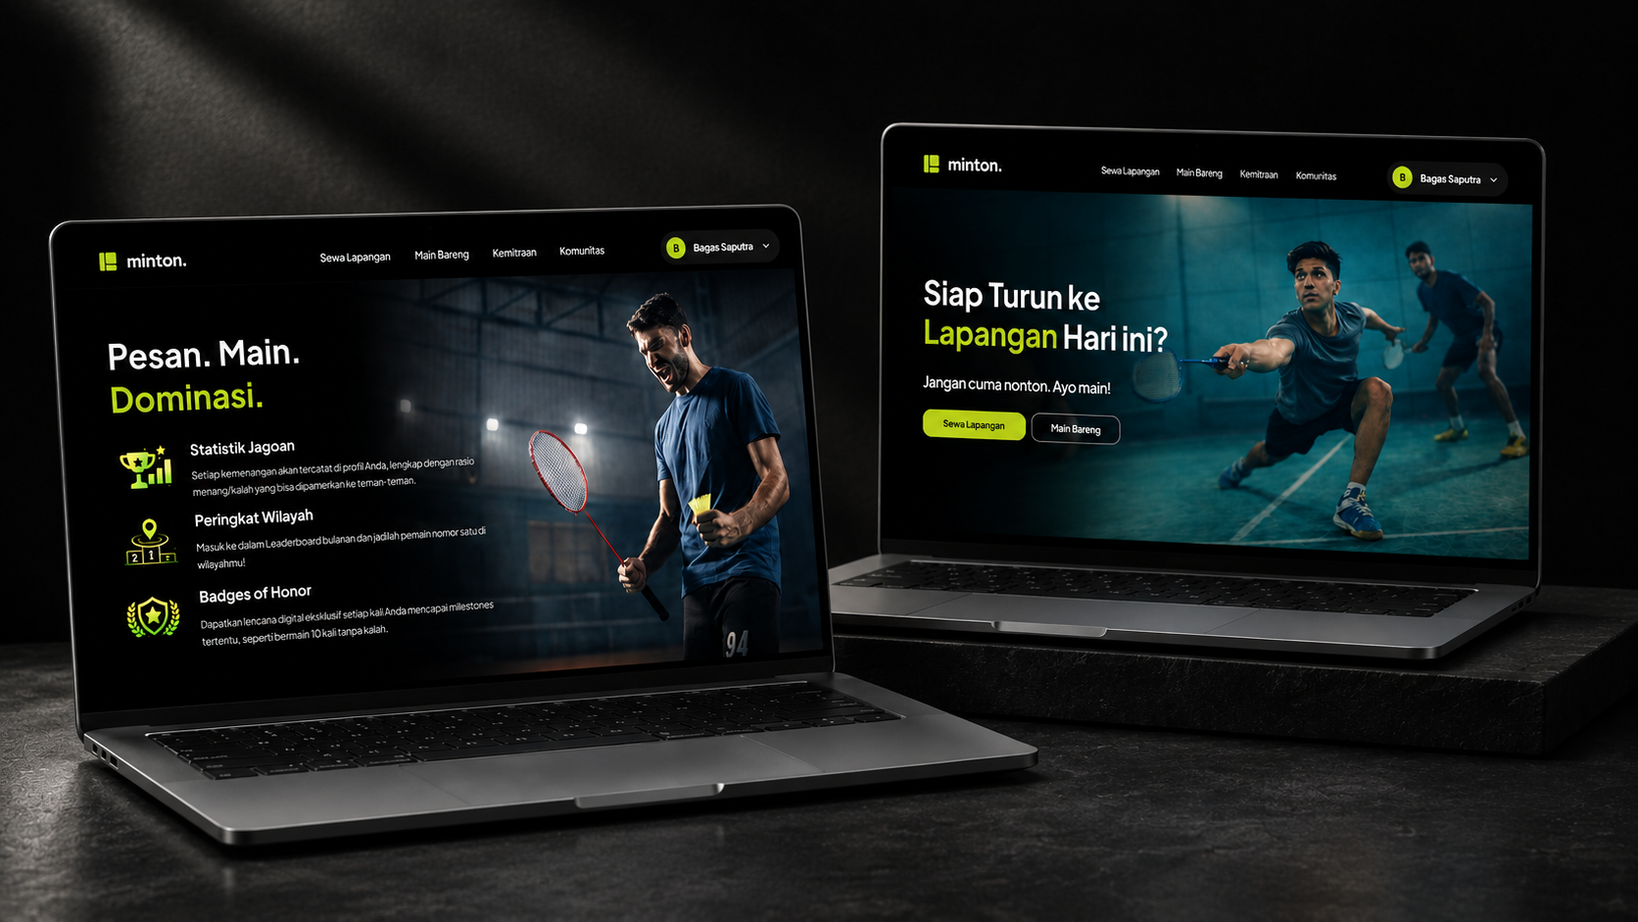
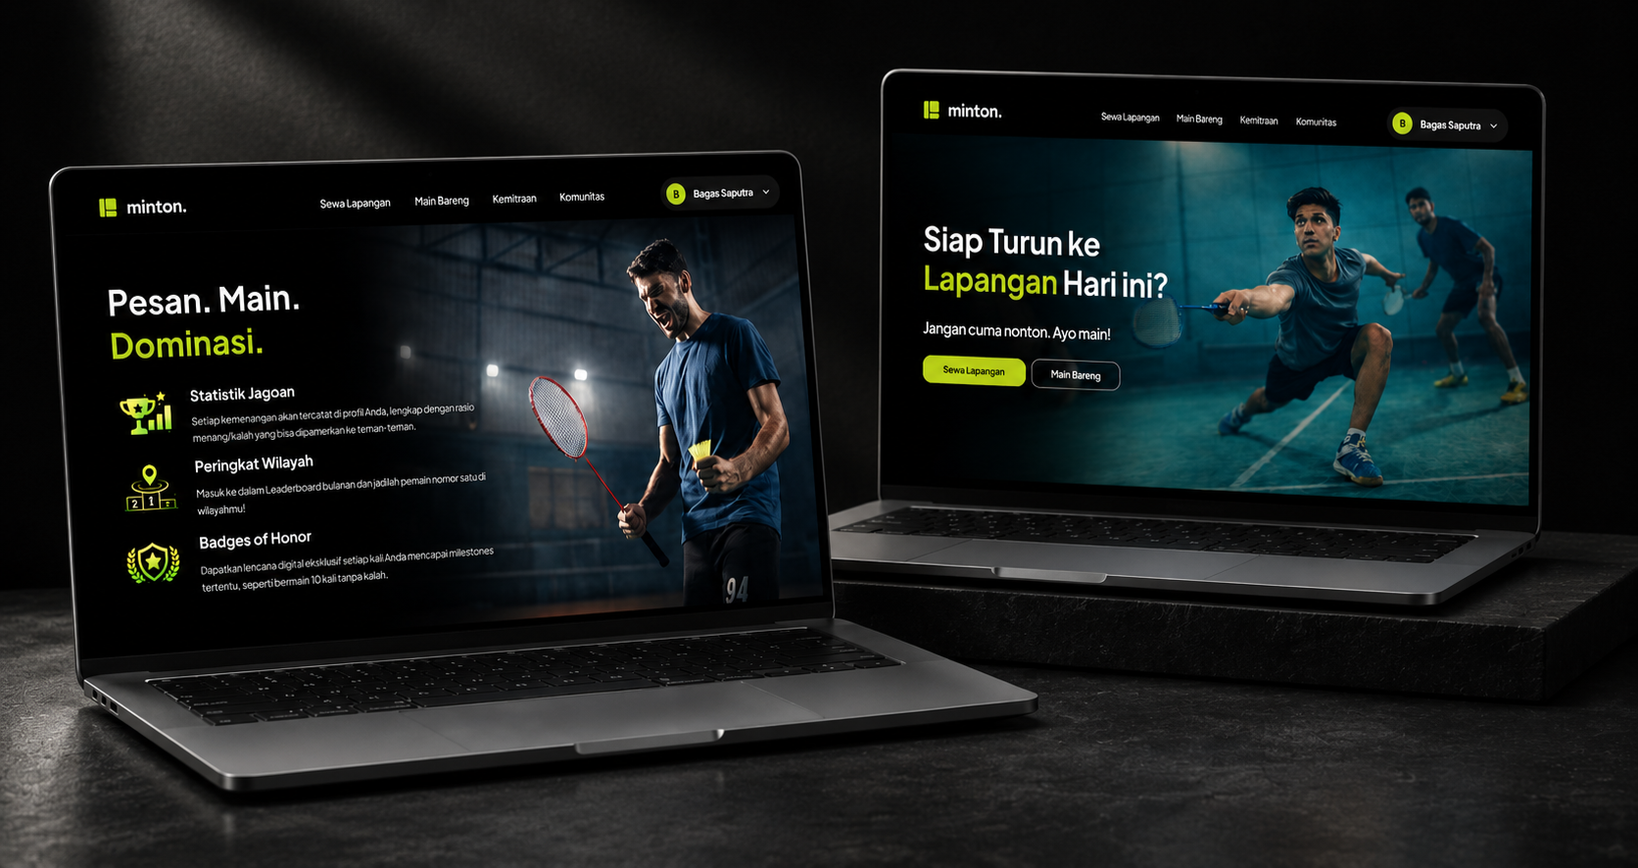
Enhance mobile experience design, add dual-language CV dropdown, update certificates and trainings

diff --git a/index.html b/index.html
@@ -72,7 +72,8 @@
                 style="max-width: 1000px; margin: 0 auto; text-align: center; display: flex; flex-direction: column; align-items: center; padding-top: 60px;">
                 <div class="badge" data-i18n="hero-badge">Portofolio Diamond Pandu</div>
                 <h1 class="hero-title" data-i18n="hero-title" style="margin-bottom: 2rem;">Dari Imajinasi hingga
-                    <span>Eksekusi,</span><br> Mengubah Ide Kreatif menjadi<br> Realitas Visual yang <span>Memukau.</span>
+                    <span>Eksekusi,</span><br> Mengubah Ide Kreatif menjadi<br> Realitas Visual yang
+                    <span>Memukau.</span>
                 </h1>
                 <div class="trust-indicators" style="margin-top: 3.5rem;">
                     <p data-i18n="hero-trust">Berpengalaman memberikan dampak positif di:</p>
@@ -126,8 +127,14 @@
                 <div class="hero-actions" style="margin-top: 2rem; margin-bottom: 0;">
                     <a href="#experience" class="btn-primary" data-i18n="hero-btn-exp">Lihat Pengalaman <i
                             class="fas fa-arrow-right"></i></a>
-                    <a href="#contact" class="btn-secondary" data-i18n="hero-btn-cv">Unduh CV <i
-                            class="fas fa-download"></i></a>
+                    <div class="cv-dropdown-wrapper" style="position: relative; display: inline-flex;">
+                        <a href="javascript:void(0)" class="btn-secondary cv-dropdown-btn" data-i18n="hero-btn-cv">Unduh
+                            CV <i class="fas fa-download"></i></a>
+                        <div class="cv-dropdown-content" id="cvDropdown">
+                            <a href="#" target="_blank" data-i18n="cv-id">Versi Bahasa Indonesia</a>
+                            <a href="#" target="_blank" data-i18n="cv-en">English Version</a>
+                        </div>
+                    </div>
                 </div>
             </div>
         </div>
@@ -175,10 +182,18 @@
                     <div class="exp-details">
                         <div class="details-inner">
                             <ul>
-                                <li data-i18n="exp-1-bullet-1">Merancang dan mengembangkan UI/UX serta Front-End untuk platform <strong>Indigo by Telkom – AI Synergy & Risk Engine</strong>, sebuah dashboard analitik risiko berbasis AI yang di-deploy live di Vercel.</li>
-                                <li data-i18n="exp-1-bullet-2">Mendesain antarmuka dan membangun Front-End website <strong>Minton – Badminton Ecosystem Platform</strong>, mencakup fitur <em>booking</em> lapangan, pendaftaran turnamen, dan komunitas pemain.</li>
-                                <li data-i18n="exp-1-bullet-3">Menerapkan metodologi <em>design thinking</em> end-to-end: riset pengguna, <em>wireframing</em>, <em>high-fidelity prototyping</em> di Figma, dan pengujian iteratif untuk validasi setiap keputusan desain.</li>
-                                <li data-i18n="exp-1-bullet-4">Mengembangkan antarmuka web responsif menggunakan HTML, CSS, dan JavaScript murni, memastikan performa optimal dan kompatibilitas lintas perangkat.</li>
+                                <li data-i18n="exp-1-bullet-1">Merancang dan mengembangkan UI/UX serta Front-End untuk
+                                    platform <strong>Indigo by Telkom – AI Synergy & Risk Engine</strong>, sebuah
+                                    dashboard analitik risiko berbasis AI yang di-deploy live di Vercel.</li>
+                                <li data-i18n="exp-1-bullet-2">Mendesain antarmuka dan membangun Front-End website
+                                    <strong>Minton – Badminton Ecosystem Platform</strong>, mencakup fitur
+                                    <em>booking</em> lapangan, pendaftaran turnamen, dan komunitas pemain.</li>
+                                <li data-i18n="exp-1-bullet-3">Menerapkan metodologi <em>design thinking</em>
+                                    end-to-end: riset pengguna, <em>wireframing</em>, <em>high-fidelity prototyping</em>
+                                    di Figma, dan pengujian iteratif untuk validasi setiap keputusan desain.</li>
+                                <li data-i18n="exp-1-bullet-4">Mengembangkan antarmuka web responsif menggunakan HTML,
+                                    CSS, dan JavaScript murni, memastikan performa optimal dan kompatibilitas lintas
+                                    perangkat.</li>
                             </ul>
                             <a href="pages/portfolio-vinix.html" class="btn-portfolio"
                                 data-i18n="exp-btn-portfolio">Lihat
@@ -215,9 +230,15 @@
                     <div class="exp-details">
                         <div class="details-inner">
                             <ul>
-                                <li data-i18n="exp-2-bullet-1">Penanggung jawab desain 40+ slide presentasi PROPER PT Pertamina Geothermal Energy Tbk Area Lahendong untuk penilaian kinerja lingkungan oleh Kementerian LHK RI.</li>
-                                <li data-i18n="exp-2-bullet-2">Mengembangkan konsep visual bertema inovasi sosial dan energi hijau, dengan palet warna khusus (hijau-kuning-putih) yang merepresentasikan ekosistem panas bumi dan pemberdayaan masyarakat petani binaan.</li>
-                                <li data-i18n="exp-2-bullet-3">Berhasil menyajikan data kinerja lingkungan kompleks menjadi infografis yang komunikatif, mendukung pencapaian perusahaan meraih predikat <strong>PROPER Hijau</strong> dari Kementerian LHK.</li>
+                                <li data-i18n="exp-2-bullet-1">Penanggung jawab desain 40+ slide presentasi PROPER PT
+                                    Pertamina Geothermal Energy Tbk Area Lahendong untuk penilaian kinerja lingkungan
+                                    oleh Kementerian LHK RI.</li>
+                                <li data-i18n="exp-2-bullet-2">Mengembangkan konsep visual bertema inovasi sosial dan
+                                    energi hijau, dengan palet warna khusus (hijau-kuning-putih) yang merepresentasikan
+                                    ekosistem panas bumi dan pemberdayaan masyarakat petani binaan.</li>
+                                <li data-i18n="exp-2-bullet-3">Berhasil menyajikan data kinerja lingkungan kompleks
+                                    menjadi infografis yang komunikatif, mendukung pencapaian perusahaan meraih predikat
+                                    <strong>PROPER Hijau</strong> dari Kementerian LHK.</li>
                             </ul>
                             <a href="pages/portfolio-pertamina-geothermal.html" class="btn-portfolio"
                                 data-i18n="exp-btn-portfolio">Lihat Portofolio <i
@@ -253,9 +274,15 @@
                     <div class="exp-details">
                         <div class="details-inner">
                             <ul>
-                                <li data-i18n="exp-3-bullet-1">Penanggung jawab desain 40+ slide presentasi PROPER PT Kilang Pertamina Internasional RU IV Cilacap, bekerja secara hybrid di kantor maupun remote.</li>
-                                <li data-i18n="exp-3-bullet-2">Menerapkan pendekatan visual data-driven dengan infografis yang menggambarkan dampak pengelolaan limbah, emisi, hingga program CSR perusahaan secara terukur.</li>
-                                <li data-i18n="exp-3-bullet-3">Mendukung keberhasilan perusahaan meraih predikat <strong>PROPER EMAS</strong> dari Kementerian LHK melalui penyajian visual yang profesional dan strategis.</li>
+                                <li data-i18n="exp-3-bullet-1">Penanggung jawab desain 40+ slide presentasi PROPER PT
+                                    Kilang Pertamina Internasional RU IV Cilacap, bekerja secara hybrid di kantor maupun
+                                    remote.</li>
+                                <li data-i18n="exp-3-bullet-2">Menerapkan pendekatan visual data-driven dengan
+                                    infografis yang menggambarkan dampak pengelolaan limbah, emisi, hingga program CSR
+                                    perusahaan secara terukur.</li>
+                                <li data-i18n="exp-3-bullet-3">Mendukung keberhasilan perusahaan meraih predikat
+                                    <strong>PROPER EMAS</strong> dari Kementerian LHK melalui penyajian visual yang
+                                    profesional dan strategis.</li>
                             </ul>
                             <a href="pages/portfolio-pertamina-internasional.html" class="btn-portfolio"
                                 data-i18n="exp-btn-portfolio">Lihat Portofolio <i
@@ -289,10 +316,17 @@
                     <div class="exp-details">
                         <div class="details-inner">
                             <ul>
-                                <li data-i18n="exp-4-bullet-1">Mendesain 50+ aset visual untuk kampanye digital & non-digital sesuai visual guideline perusahaan, mencakup konten media sosial, banner, poster, dan motion graphic.</li>
-                                <li data-i18n="exp-4-bullet-2">Memproduksi 2 video motion graphic untuk kampanye Instagram Reels: "Beras untuk Generasi Emas" dan "Packaging Baru Setra Ramos" yang menargetkan audiens millennial.</li>
-                                <li data-i18n="exp-4-bullet-3">Mengoptimasi desain media cetak (poster SPHP, banner beras ramos, poster K3) untuk kebutuhan komunikasi Bagian Marketing Communication dan Hubungan Masyarakat.</li>
-                                <li data-i18n="exp-4-bullet-4"><em>Pencapaian: Sertifikat Magenta BUMN dengan Nilai A (Sangat Memuaskan).</em></li>
+                                <li data-i18n="exp-4-bullet-1">Mendesain 50+ aset visual untuk kampanye digital &
+                                    non-digital sesuai visual guideline perusahaan, mencakup konten media sosial,
+                                    banner, poster, dan motion graphic.</li>
+                                <li data-i18n="exp-4-bullet-2">Memproduksi 2 video motion graphic untuk kampanye
+                                    Instagram Reels: "Beras untuk Generasi Emas" dan "Packaging Baru Setra Ramos" yang
+                                    menargetkan audiens millennial.</li>
+                                <li data-i18n="exp-4-bullet-3">Mengoptimasi desain media cetak (poster SPHP, banner
+                                    beras ramos, poster K3) untuk kebutuhan komunikasi Bagian Marketing Communication
+                                    dan Hubungan Masyarakat.</li>
+                                <li data-i18n="exp-4-bullet-4"><em>Pencapaian: Sertifikat Magenta BUMN dengan Nilai A
+                                        (Sangat Memuaskan).</em></li>
                             </ul>
                             <a href="pages/portfolio-bulog.html" class="btn-portfolio"
                                 data-i18n="exp-btn-portfolio">Lihat
@@ -327,10 +361,17 @@
                     <div class="exp-details">
                         <div class="details-inner">
                             <ul>
-                                <li data-i18n="exp-5-bullet-1">Mendesain sistem identitas visual berupa maskot & branding elements untuk Program Nasional Pusat Perbukuan, dan <strong>meraih Juara 1</strong> dalam kompetisi Desain Maskot & Branding BSKAP 2024.</li>
-                                <li data-i18n="exp-5-bullet-2">Mendesain Buku Pedoman ZI-WBK | WBBM BSKAP 2024 (60+ halaman) dengan tata letak yang informatif dan konsisten dengan identitas lembaga.</li>
-                                <li data-i18n="exp-5-bullet-3">Membuat ilustrasi Buku Non-Teks Komik Jenjang E untuk Kampanye Anti-Bullying, menerjemahkan pesan edukasi ke dalam visual yang menarik bagi pembaca anak.</li>
-                                <li data-i18n="exp-5-bullet-4">Berkolaborasi dengan divisi humas dalam perancangan aset konten media sosial resmi BSKAP Kemendikbudristek.</li>
+                                <li data-i18n="exp-5-bullet-1">Mendesain sistem identitas visual berupa maskot &
+                                    branding elements untuk Program Nasional Pusat Perbukuan, dan <strong>meraih Juara
+                                        1</strong> dalam kompetisi Desain Maskot & Branding BSKAP 2024.</li>
+                                <li data-i18n="exp-5-bullet-2">Mendesain Buku Pedoman ZI-WBK | WBBM BSKAP 2024 (60+
+                                    halaman) dengan tata letak yang informatif dan konsisten dengan identitas lembaga.
+                                </li>
+                                <li data-i18n="exp-5-bullet-3">Membuat ilustrasi Buku Non-Teks Komik Jenjang E untuk
+                                    Kampanye Anti-Bullying, menerjemahkan pesan edukasi ke dalam visual yang menarik
+                                    bagi pembaca anak.</li>
+                                <li data-i18n="exp-5-bullet-4">Berkolaborasi dengan divisi humas dalam perancangan aset
+                                    konten media sosial resmi BSKAP Kemendikbudristek.</li>
                             </ul>
                             <a href="pages/portfolio-bskap.html" class="btn-portfolio"
                                 data-i18n="exp-btn-portfolio">Lihat
@@ -418,12 +459,11 @@
                                     <span data-i18n="cert-2-desc">UX Design Professional</span>
                                 </div>
                             </div>
-                            <div class="cert-card"
-                                data-cert-src="assets/img/EFSET C2_page-0001.jpg"
+                            <div class="cert-card" data-cert-src="assets/img/EFSET C2_page-0001.jpg"
                                 data-cert-type="image"
                                 style="background: var(--bg-secondary); border: none; display: flex; align-items: center; gap: 1rem; padding: 1rem; border-radius: 8px;">
                                 <div class="cert-icon efset"
-                                    style="width: 56px; height: 56px; display: flex; align-items: center; justify-content: center; background: #ffffff; border-radius: 8px; padding: 6px; box-shadow: 0 4px 6px rgba(0,0,0,0.1); flex-shrink: 0;">
+                                    style="width: 56px; height: 56px; display: flex; align-items: center; justify-content: center; background: transparent; padding: 0; box-shadow: none; flex-shrink: 0;">
                                     <img src="assets/img/efset.png" alt="EFSET English"
                                         style="max-width: 100%; max-height: 100%; object-fit: contain;">
                                 </div>
@@ -438,7 +478,7 @@
                                 data-cert-type="image"
                                 style="background: var(--bg-secondary); border: none; display: flex; align-items: center; gap: 1rem; padding: 1rem; border-radius: 8px;">
                                 <div class="cert-icon toefl"
-                                    style="width: 56px; height: 56px; display: flex; align-items: center; justify-content: center; background: #ffffff; border-radius: 8px; padding: 6px; box-shadow: 0 4px 6px rgba(0,0,0,0.1); flex-shrink: 0;">
+                                    style="width: 56px; height: 56px; display: flex; align-items: center; justify-content: center; background: transparent; padding: 0; box-shadow: none; flex-shrink: 0;">
                                     <img src="assets/img/toefl.png" alt="TOEFL ITP"
                                         style="max-width: 100%; max-height: 100%; object-fit: contain;">
                                 </div>
@@ -589,7 +629,6 @@
                         <li data-i18n="ach-train-1">Bootcamp UI/UX Design Special Skill Indonesia (Predikat “Excellent”)
                         </li>
                         <li data-i18n="ach-train-2">Rakamin PBI – UI/UX Designer Nuri</li>
-                        <li data-i18n="ach-train-3">Rakamin PBI – UX Researcher Telkom Digital Amoeba</li>
                     </ul>
                 </div>
             </div>
@@ -622,7 +661,7 @@
         <div class="container footer-container">
             <div class="footer-brand">
                 <a href="#" class="logo">Portfo<span>lio.</span></a>
-                <p>Visual Communication & Digital Transformation Designer</p>
+                <p data-i18n="footer-desc">Visual Communication & Digital Transformation Designer</p>
             </div>
             <div class="footer-social">
                 <a href="https://www.linkedin.com/in/diamondpandu/" target="_blank"><i

diff --git a/script.js b/script.js
@@ -134,9 +134,9 @@ document.addEventListener('DOMContentLoaded', () => {
             'nav-contact': 'Hubungi Saya',
             'hero-badge': 'Portofolio Diamond Pandu',
             'hero-title': 'Dari Imajinasi hingga <span>Eksekusi,</span><br> Mengubah Ide Kreatif menjadi<br> Realitas Visual yang <span>Memukau.</span>',
-            'hero-subtitle': 'Saya adalah seorang <strong>Visual Communication & Digital Transformation Designer</strong> dengan keahlian komprehensif di bidang UI/UX, Front-End Development, dan Desain Grafis. Berpengalaman dalam memberikan solusi visual strategis untuk berbagai institusi besar termasuk BUMN dan Kementerian.',
+            'hero-subtitle': 'Saya adalah seorang <strong>Desainer Komunikasi Visual & Transformasi Digital</strong> dengan keahlian komprehensif di bidang Desain UI/UX, Pemrograman Front-End, serta Desain Grafis. Berpengalaman luas dalam memberikan solusi visual strategis untuk berbagai institusi berskala besar, termasuk Kementerian dan BUMN.',
             'about-header-title': 'Tentang <span>Saya</span>',
-            'about-subtitle': 'Saya adalah seorang <strong>Visual Communication & Digital Transformation Designer</strong> dengan keahlian komprehensif di bidang UI/UX, Front-End Development, dan Desain Grafis. Berpengalaman dalam memberikan solusi visual strategis untuk berbagai institusi besar termasuk BUMN dan Kementerian.',
+            'about-subtitle': 'Saya adalah seorang <strong>Desainer Komunikasi Visual & Transformasi Digital</strong> dengan keahlian komprehensif di bidang Desain UI/UX, Pemrograman Front-End, serta Desain Grafis. Berpengalaman luas dalam memberikan solusi visual strategis untuk berbagai institusi berskala besar, termasuk Kementerian dan BUMN.',
             'hero-btn-exp': 'Lihat Pengalaman <i class="fas fa-arrow-right"></i>',
             'hero-btn-cv': 'Unduh CV <i class="fas fa-download"></i>',
             'hero-trust': 'Berpengalaman memberikan dampak positif di:',
@@ -216,7 +216,6 @@ document.addEventListener('DOMContentLoaded', () => {
             'ach-org': '<strong>PPK ORMAWA HIMA DKV ISI Surakarta</strong> - Memberikan Workshop Desain & Digital Marketing (2023)',
             'ach-train-1': 'Bootcamp UI/UX Design Special Skill Indonesia (Predikat “Excellent”)',
             'ach-train-2': 'Rakamin PBI – UI/UX Designer Nuri',
-            'ach-train-3': 'Rakamin PBI – UX Researcher Telkom Digital Amoeba',
             'contact-header': 'Mari ciptakan solusi digital <span>berdampak besar</span> bersama.',
             'contact-subtitle': 'Membutuhkan tenaga profesional di bidang desain komunikasi visual atau front-end development? Saya siap berdiskusi untuk membawa nilai tambah bagi perusahaan Anda.',
             'form-name': 'Nama Lengkap / Perusahaan',
@@ -228,7 +227,10 @@ document.addEventListener('DOMContentLoaded', () => {
             'exp-2-location': 'Sulawesi Utara (Remote)',
             'exp-3-location': 'Cilacap, Jawa Tengah',
             'exp-4-location': 'Yogyakarta, Indonesia',
-            'exp-5-location': 'Jakarta, Indonesia'
+            'exp-5-location': 'Jakarta, Indonesia',
+            'footer-desc': 'Desainer Komunikasi Visual & Transformasi Digital',
+            'cv-id': 'Versi Bahasa Indonesia',
+            'cv-en': 'English Version'
         },
         'en': {
             'nav-home': 'Home',
@@ -325,14 +327,16 @@ document.addEventListener('DOMContentLoaded', () => {
             'ach-org': '<strong>PPK ORMAWA HIMA DKV ISI Surakarta</strong> - Provided Design & Digital Marketing Workshops (2023)',
             'ach-train-1': 'Bootcamp UI/UX Design Special Skill Indonesia (Graduated with "Excellent" Rating)',
             'ach-train-2': 'Rakamin PBI – UI/UX Designer Nuri',
-            'ach-train-3': 'Rakamin PBI – UX Researcher Telkom Digital Amoeba',
             'contact-header': 'Let\'s create <span>impactful</span> digital solutions together.',
             'contact-subtitle': 'Need professional services in visual communication design or front-end development? I am ready to discuss bringing added value to your company.',
             'form-name': 'Full Name / Company',
             'form-email': 'Professional Email',
             'form-message': 'Project Details / Offer',
             'form-btn': 'Send Message <i class="fas fa-paper-plane"></i>',
-            'exp-btn-portfolio': 'View Portfolio <i class="fas fa-external-link-alt"></i>'
+            'exp-btn-portfolio': 'View Portfolio <i class="fas fa-external-link-alt"></i>',
+            'footer-desc': 'Visual Communication & Digital Transformation Designer',
+            'cv-id': 'Indonesian Version',
+            'cv-en': 'English Version'
         }
     };
 
@@ -621,6 +625,24 @@ document.addEventListener('DOMContentLoaded', () => {
         document.addEventListener('keydown', (e) => {
             if (e.key === 'Escape' && certModal.classList.contains('active')) {
                 closeModal();
+            }
+        });
+    }
+
+    // CV Dropdown Logic
+    const cvBtn = document.querySelector('.cv-dropdown-btn');
+    const cvDropdown = document.getElementById('cvDropdown');
+
+    if (cvBtn && cvDropdown) {
+        cvBtn.addEventListener('click', (e) => {
+            e.stopPropagation();
+            cvDropdown.classList.toggle('show');
+        });
+
+        // Close dropdown when clicking outside
+        document.addEventListener('click', (e) => {
+            if (!cvBtn.contains(e.target) && !cvDropdown.contains(e.target)) {
+                cvDropdown.classList.remove('show');
             }
         });
     }

diff --git a/style.css b/style.css
@@ -205,6 +205,54 @@ span {
     transform: translateY(-2px);
 }
 
+.cv-dropdown-content {
+    display: none;
+    position: absolute;
+    top: 100%;
+    left: 50%;
+    transform: translateX(-50%);
+    background-color: var(--bg-tertiary);
+    min-width: 220px;
+    box-shadow: 0px 8px 16px 0px rgba(0,0,0,0.4);
+    z-index: 100;
+    border-radius: 8px;
+    margin-top: 10px;
+    overflow: hidden;
+    border: 1px solid var(--border-color);
+    opacity: 0;
+    transition: opacity 0.3s ease;
+}
+
+.cv-dropdown-content.show {
+    display: block;
+    animation: fadeInDropdown 0.3s forwards;
+}
+
+@keyframes fadeInDropdown {
+    from { opacity: 0; transform: translate(-50%, -10px); }
+    to { opacity: 1; transform: translate(-50%, 0); }
+}
+
+.cv-dropdown-content a {
+    color: var(--text-primary);
+    padding: 12px 18px;
+    text-decoration: none;
+    display: block;
+    font-size: 0.95rem;
+    text-align: left;
+    border-bottom: 1px solid var(--border-color);
+    transition: background-color 0.2s ease, color 0.2s ease;
+}
+
+.cv-dropdown-content a:last-child {
+    border-bottom: none;
+}
+
+.cv-dropdown-content a:hover {
+    background-color: var(--accent-primary);
+    color: white;
+}
+
 .w-100 {
     width: 100%;
     justify-content: center;
@@ -498,6 +546,18 @@ span {
     display: none;
 }
 
+/* Dark mode (default) inverts black text logos to white */
+.cert-icon.efset img, 
+.cert-icon.toefl img {
+    filter: brightness(0) invert(1);
+}
+
+/* Light mode keeps them in original color (black) */
+[data-theme="light"] .cert-icon.efset img, 
+[data-theme="light"] .cert-icon.toefl img {
+    filter: none;
+}
+
 .trust-logo.vinix-logo {
     filter: brightness(0) invert(1) opacity(0.6);
 }
@@ -740,8 +800,8 @@ span {
 }
 
 .exp-item.active .exp-details {
-    max-height: 500px;
-    /* Adjust as needed */
+    max-height: 2000px;
+    /* Expanded max-height to ensure view portfolio buttons are not truncated on mobile screens */
 }
 
 .details-inner {
@@ -1381,12 +1441,34 @@ footer {
     }
 
     .exp-summary {
-        gap: 1rem;
-        padding: 1.5rem;
+        display: grid;
+        grid-template-columns: 1fr auto;
+        gap: 0.8rem;
+        padding: 1.5rem 1.25rem;
+        align-items: center;
+    }
+    
+    .company-logo {
+        grid-column: 1 / -1;
+        width: 55px;
+        height: 55px;
+    }
+
+    .exp-info {
+        grid-column: 1;
+    }
+
+    .exp-toggle {
+        grid-column: 2;
+    }
+
+    .exp-info h3 {
+        font-size: 1.05rem;
+        line-height: 1.3;
     }
 
     .details-inner {
-        padding-left: 1.5rem;
+        padding: 0 1.25rem 1.75rem 1.25rem;
     }
 }
 
